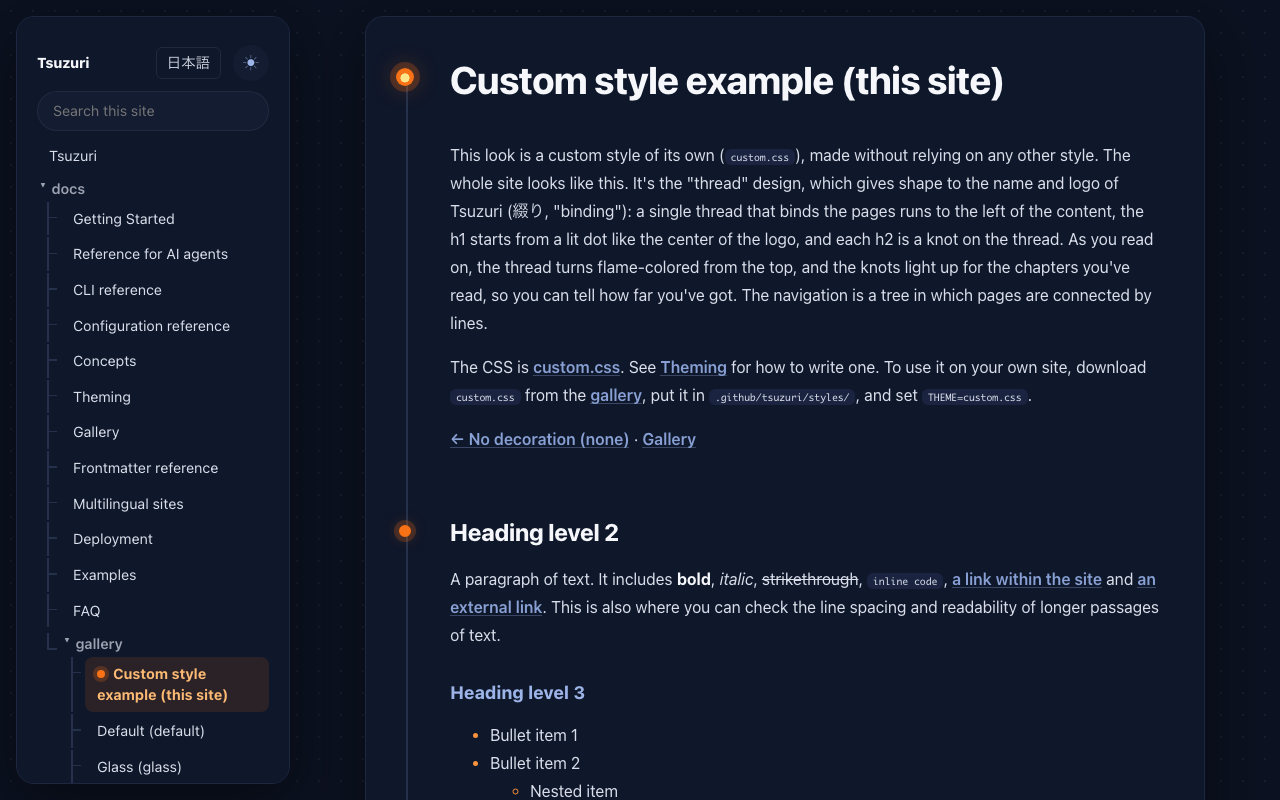
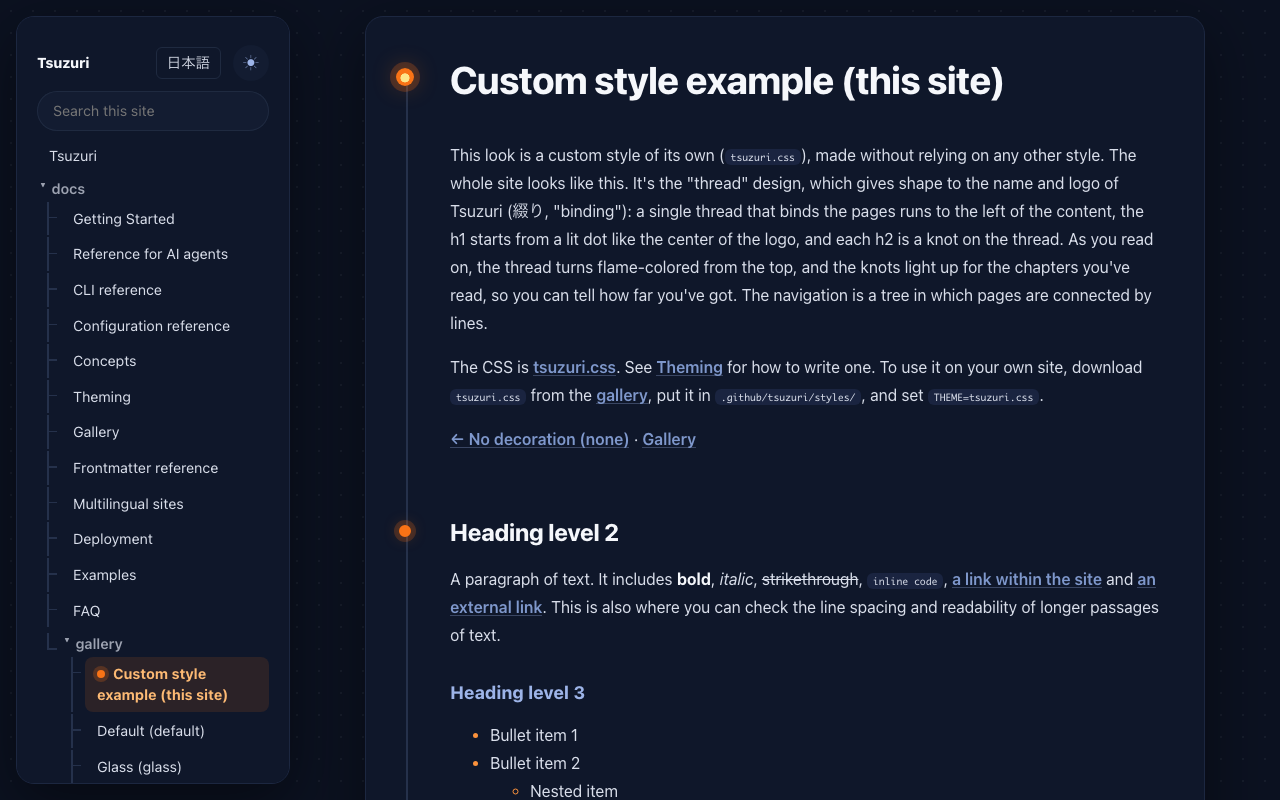
feat: サイトを base.css と tsuzuri.css の2層に切り替える
- init --update で v1.38.0 のスクリプト、base.css、default.css、ワークフローを取り込む
- 設定を THEME=tsuzuri.css にし、STYLE_FILE を削除する
- custom.css を tsuzuri.css に、docs/gallery/custom.md を tsuzuri.md に改名し、参照を直す
- 見本ページの styleFile: plain.css と plain.css を削除する
- 「糸」のサムネイルを改名後の画面で撮り直す

Changed region(s): [[0.4062, 0.4375, 0.9062, 0.5], [0.5625, 0.1875, 0.9062, 0.2188]]

diff --git a/.github/tsuzuri/styles/base.css b/.github/tsuzuri/styles/base.css
@@ -30,12 +30,12 @@
   main code { background: var(--code-bg); padding: 2px 5px; border-radius: 4px; font-size: 0.9em; }
   main pre code { background: none; padding: 0; }
   /* 表は内容に合わせた幅にし、入り切らないときは表の中だけを横にスクロールさせる(本文ごと横に動かさない)。
-     overflow-x は、テーマや独自CSSの main table { overflow: hidden; }(角を丸く切る指定)より優先させるため、body を付けて書く */
+     overflow-x は、カスタムスタイルの main table { overflow: hidden; }(角を丸く切る指定)より優先させるため、body を付けて書く */
   main table { display: block; width: max-content; max-width: 100%; border-collapse: collapse; }
   body main table { overflow-x: auto; }
 
   /* コードの色分け(言語名付きのコードブロックを highlight.js でビルド時に色分けしたもの)。
-     色はテーマのアクセント色・文字色から決める。独自CSSで --hl-* 変数を指定すれば個別に変えられる。 */
+     色はカスタムスタイルのアクセント色・文字色から決める。カスタムスタイルで --hl-* 変数を指定すれば個別に変えられる。 */
   .hljs-comment, .hljs-quote { color: var(--hl-comment, var(--fg)); opacity: 0.6; font-style: italic; }
   .hljs-keyword, .hljs-selector-tag, .hljs-built_in, .hljs-type, .hljs-meta {
     color: var(--hl-keyword, var(--accent));
@@ -63,7 +63,7 @@
   /* サイト内ナビゲーション(NAV_ENABLED=true のときだけ body 直下に出力される)。
      広い画面では左側に固定したサイドバー、狭い画面では本文の上に「メニュー」ボタンを置き、
      押すとページ一覧が開く(JavaScriptは使わず、チェックボックスとラベルで開閉する)。
-     色はテーマの変数を使うため、どのテーマでもそのまま馴染む。 */
+     色はカスタムスタイルの変数を使うため、どのカスタムスタイルでもそのまま馴染む。 */
   body > nav {
     font-size: 0.9em;
     line-height: 1.5;
@@ -160,7 +160,7 @@
   }
   [data-fn-ref] { text-decoration: none; }
 
-  /* コードブロックのコピーボタン(tsuzuri-copy.js が付ける)。常に表示する。カーソルを当てると、テーマのアクセント色になる(カーソルのある端末だけ)。
+  /* コードブロックのコピーボタン(tsuzuri-copy.js が付ける)。常に表示する。カーソルを当てると、カスタムスタイルのアクセント色になる(カーソルのある端末だけ)。
      ボタンが文字に重ならないよう、ボタンを付けたコードブロックは上の余白を広げ、ボタンの下から文字を始める */
   .tsuzuri-code { position: relative; }
   .tsuzuri-code > pre { padding-top: 40px; }
@@ -247,6 +247,10 @@
     .tsuzuri-nav-label { display: none; }
     body:has(> nav) > main { width: 100%; }
   }
+
+/* ---------- カルーセル(ギャラリーの見本画像。JavaScript を使わず、横にスクロールして切り替える) ---------- */
+.tsuzuri-carousel { display: flex; gap: 12px; overflow-x: auto; scroll-snap-type: x mandatory; margin: 0 0 12px; }
+.tsuzuri-carousel > img { flex: 0 0 100%; max-width: 100%; height: auto; scroll-snap-align: start; }
 
 /* ---------- 言語の切り替え ここから(多言語サイトのときだけ出力される) ---------- */
 :is(.tsuzuri-nav-head, .tsuzuri-lang-bar) .tsuzuri-lang-switch {

diff --git a/.github/tsuzuri/styles/tsuzuri.css b/.github/tsuzuri/styles/tsuzuri.css
@@ -1,15 +1,15 @@
 /*
- * Tsuzuri サイト用の独自スタイル(STYLE_FILE)
+ * Tsuzuri サイト用のカスタムスタイル(THEME=tsuzuri.css)
  *
- * THEME=none(基礎CSSのみ)の上に、Tsuzuri(綴り)の名前とロゴをそのまま形にした「スレッド」の見た目を作る。
+ * ベース(base.css)の上に、Tsuzuri(綴り)の名前とロゴをそのまま形にした「スレッド」の見た目を作る。
  *   - 本文の左に、ページを綴じる1本の糸が通る。h1 はロゴの中心のような灯った点から始まり、h2 は糸の上の結び目
  *   - 糸は読み進めるほど上から炎の色に染まり、結び目は読んだ章まで灯る(どこまで読んだかが分かる)
  *   - ナビは、ページどうしが線でつながる木の形。今いるページの点だけが灯る
  *   - ライト表示は生成りの紙と紺のインク、ダーク表示は夜の紺。動きに対応していないブラウザや、
  *     動きを減らす設定の人には、糸と結び目は動かずにそのまま表示される
  *
- * テーマの見本ページ(docs/gallery/*.md)は、それぞれのテーマの見た目をそのまま見せるため、
- * frontmatter の styleFile で中身が空の plain.css を指定して、このスタイルを当てないようにしている。
+ * ギャラリーの見本ページ(docs/gallery/*.md)は、frontmatter の theme でそれぞれのカスタムスタイルを
+ * 指定しているので、このスタイルは当たらない(サイト全体のカスタムスタイルが置き換えられる)。
  */
 :root {
   color-scheme: light dark;
@@ -156,7 +156,7 @@ main h4 { margin: 1.5em 0 0.4em; font-size: 1em; color: var(--muted); }
 main a { color: var(--accent); font-weight: 600; text-decoration: underline; text-decoration-thickness: 2px; text-underline-offset: 0.2em; text-decoration-color: color-mix(in srgb, var(--accent) 35%, transparent); }
 main a:hover { color: var(--accent-2); text-decoration-color: var(--accent-2); }
 
-/* 本文の部品(角を丸く、テーマの質感で) */
+/* 本文の部品(角を丸く、このスタイルの質感で) */
 main strong { color: var(--heading); }
 main blockquote { margin: 1.4em 0; padding: 0.8em 1.2em; color: var(--muted); background: var(--el-bg); border: 0; border-radius: var(--radius); box-shadow: var(--inset-shadow); }
 main hr { margin: 2.5em 0; height: 3px; border: 0; border-radius: 3px; background: var(--hr); }

diff --git a/MAINTAINING.ja.md b/MAINTAINING.ja.md
@@ -7,7 +7,7 @@
 
 `docs/`(と `README.md`)が、利用者向けサイトの原本です。サイトは Tsuzuri 自身で作っています。`main` にマージすると `.github/workflows/tsuzuri-pages.yml` が動き、サイトが GitHub Pages に公開されます。利用者向けドキュメントの修正も、コードと同じように `main` への PR で行います。
 
-- `.github/tsuzuri/`(ビルドスクリプト、`lib/`、`styles/` の `base.css` と `default.css`、`package.json`・`package-lock.json`、`.gitignore`)と `tsuzuri-pages.yml` は、リリース時の `init --update` だけで変わります(「リリース」を参照)。手で編集しないでください。ただし、action の SHA とバージョンのコメントは例外で、「依存パッケージの更新」の手順で、ほかの 3 ファイルと同時に `tsuzuri-pages.yml` も手で直します。`.github/tsuzuri/config` と、`.github/tsuzuri/styles/` に置いた `default.css` 以外のカスタムスタイル(`custom.css` や `plain.css`、ギャラリーで配るスタイルの `glass.css` ほかと `none.css` など)は、このサイト自身のファイルで、`init --update` では変更されません。ギャラリーで配るカスタムスタイルの CSS は、パッケージには含めて配らないので、手で保守します(`.github/tsuzuri/` を手で編集しないという決まりの例外です)。
+- `.github/tsuzuri/`(ビルドスクリプト、`lib/`、`styles/` の `base.css` と `default.css`、`package.json`・`package-lock.json`、`.gitignore`)と `tsuzuri-pages.yml` は、リリース時の `init --update` だけで変わります(「リリース」を参照)。手で編集しないでください。ただし、action の SHA とバージョンのコメントは例外で、「依存パッケージの更新」の手順で、ほかの 3 ファイルと同時に `tsuzuri-pages.yml` も手で直します。`.github/tsuzuri/config` と、`.github/tsuzuri/styles/` に置いた `default.css` 以外のカスタムスタイル(`tsuzuri.css`、ギャラリーで配るスタイルの `glass.css` ほかと `none.css` など)は、このサイト自身のファイルで、`init --update` では変更されません。ギャラリーで配るカスタムスタイルの CSS は、パッケージには含めて配らないので、手で保守します(`.github/tsuzuri/` を手で編集しないという決まりの例外です)。
 - 公開は CI の成功を待ちません。マージ前のサイトの確認は、CI の `docs-build` ジョブ(公開せずにビルドだけ行う)で行います。
 
 ## リポジトリの初期設定(1 回だけ)

diff --git a/MAINTAINING.md b/MAINTAINING.md
@@ -7,7 +7,7 @@ This document is for people who can push to `main`: how the user documentation (
 
 `docs/` (with `README.md`) is the source of the user-facing site, which is built with Tsuzuri itself. Merging to `main` runs `.github/workflows/tsuzuri-pages.yml` and publishes the site to GitHub Pages. User-facing documentation fixes are PRs to `main`, like code changes.
 
-- `.github/tsuzuri/` (the build script, `lib/`, `styles/base.css` and `styles/default.css`, `package.json`, `package-lock.json` and `.gitignore`) and `tsuzuri-pages.yml` change only through `init --update` at release time (see Releasing). Do not edit them by hand. The one exception is the SHA and version comment of an action: update them by hand in `tsuzuri-pages.yml` together with the other three files, as described in Updating dependencies. `.github/tsuzuri/config` and the custom styles under `.github/tsuzuri/styles/` other than `default.css` (such as `custom.css` and `plain.css`, and the styles offered in the gallery: `glass.css` and the other styles, and `none.css`) are this site's own files, and `init --update` leaves them alone. The CSS of the custom styles offered in the gallery is maintained by hand: they are not distributed in the package, so this is an exception to the rule of not editing `.github/tsuzuri/` by hand.
+- `.github/tsuzuri/` (the build script, `lib/`, `styles/base.css` and `styles/default.css`, `package.json`, `package-lock.json` and `.gitignore`) and `tsuzuri-pages.yml` change only through `init --update` at release time (see Releasing). Do not edit them by hand. The one exception is the SHA and version comment of an action: update them by hand in `tsuzuri-pages.yml` together with the other three files, as described in Updating dependencies. `.github/tsuzuri/config` and the custom styles under `.github/tsuzuri/styles/` other than `default.css` (such as `tsuzuri.css`, and the styles offered in the gallery: `glass.css` and the other styles, and `none.css`) are this site's own files, and `init --update` leaves them alone. The CSS of the custom styles offered in the gallery is maintained by hand: they are not distributed in the package, so this is an exception to the rule of not editing `.github/tsuzuri/` by hand.
 - Publishing does not wait for CI. Check the site before merging with the `docs-build` job of CI, which builds the site without deploying it.
 
 ## One-time repository setup

diff --git a/docs/theming.ja.md b/docs/theming.ja.md
@@ -67,7 +67,7 @@ THEME=glass.css
 - **90年代(`nineties.css`)**: 90s Nostalgia。Windows 95 風の青緑のデスクトップと灰色のウィンドウ、立体のボタン。ライト表示のみ。
 - **装飾なし(`none.css`)**: コメントだけのCSSファイル。ベースだけが適用され、色や装飾はブラウザの既定の見た目になります
   (`THEME=none`というキーワードはありません。`none.css`をほかのカスタムスタイルと同じように使います)。
-- **Tsuzuri(`custom.css`)**: このサイト自身の見た目(下の囲みを参照)。
+- **Tsuzuri(`tsuzuri.css`)**: このサイト自身の見た目(下の囲みを参照)。
 
 ライト/ダーク表示は、ブループリントが常に同じ表示、90年代がライトのみで、それ以外はOSの設定に合わせて
 自動で切り替わります。グラスのガラス(背景のぼかし)は、ブラウザが対応していない場合は半透明のカードとして表示されます。
@@ -106,8 +106,8 @@ THEME=glass.css
 
 > [!TIP]
 > このサイト自体も、自分用のカスタムスタイル(「スレッド」のデザイン。
-> [custom.css](https://github.com/akilasatolu/tsuzuri/blob/main/.github/tsuzuri/styles/custom.css))で見た目を作っています。
-> 書き方の例として参考にしてください(見た目は[カスタムスタイルの例](gallery/custom.ja.md)で確認できます)。
+> [tsuzuri.css](https://github.com/akilasatolu/tsuzuri/blob/main/.github/tsuzuri/styles/tsuzuri.css))で見た目を作っています。
+> 書き方の例として参考にしてください(見た目は[カスタムスタイルの例](gallery/tsuzuri.ja.md)で確認できます)。
 >
 > このサイトの[ギャラリー](gallery.ja.md)は、見本ページのfrontmatterに[`theme`](frontmatter.ja.md#theme)を
 > 書いて、カスタムスタイルごとにそのスタイルだけの見た目で表示しています。

diff --git a/docs/gallery/tsuzuri.ja.md b/docs/gallery/tsuzuri.ja.md
@@ -1,20 +1,21 @@
 ---
 title: カスタムスタイルの例(このサイト)
+theme: tsuzuri.css
 description: このサイト自身のカスタムスタイルで作った、このサイト自身の見た目の見本ページ
 ---
 
 # カスタムスタイルの例(このサイト)
 
-このサイト自身のカスタムスタイル(`custom.css`)で作った見た目です。
+このサイト自身のカスタムスタイル(`tsuzuri.css`)で作った見た目です。
 このサイト全体がこの見た目になっています。Tsuzuri(綴り)の名前とロゴをそのまま形にした「スレッド」のデザインで、
 本文の左にページを綴じる1本の糸が通り、h1 はロゴの中心のような灯った点から、h2 は糸の上の結び目になります。
 糸は読み進めるほど上から炎の色に染まり、結び目は読んだ章まで灯るので、どこまで読んだかが分かります。
 ナビは、ページどうしが線でつながる木の形です。
 
-使っているCSSは[custom.css](https://github.com/akilasatolu/tsuzuri/blob/main/.github/tsuzuri/styles/custom.css)です。
+使っているCSSは[tsuzuri.css](https://github.com/akilasatolu/tsuzuri/blob/main/.github/tsuzuri/styles/tsuzuri.css)です。
 書き方は[スタイル(Theming)](../theming.ja.md#自分でカスタムスタイルを作る)を参照してください。
-自分のサイトで使うには、[ギャラリー](../gallery.ja.md#tsuzuriこのサイト)で`custom.css`をダウンロードし、
-`.github/tsuzuri/styles/`に置いて、`THEME=custom.css`にします。
+自分のサイトで使うには、[ギャラリー](../gallery.ja.md#tsuzuriこのサイト)で`tsuzuri.css`をダウンロードし、
+`.github/tsuzuri/styles/`に置いて、`THEME=tsuzuri.css`にします。
 
 [← 装飾なし(none)](none.ja.md) ・ [ギャラリー一覧](../gallery.ja.md)
 

diff --git a/docs/gallery/tsuzuri.md b/docs/gallery/tsuzuri.md
@@ -1,11 +1,12 @@
 ---
 title: Custom style example (this site)
+theme: tsuzuri.css
 description: A sample page of this site's own look, made with a custom style of its own
 ---
 
 # Custom style example (this site)
 
-This look is a custom style of its own (`custom.css`), made without relying on any other style.
+This look is a custom style of its own (`tsuzuri.css`), made without relying on any other style.
 The whole site looks like this. It's the "thread" design, which gives shape to the name and logo of
 Tsuzuri (綴り, "binding"): a single thread that binds the pages runs to the left of the content,
 the h1 starts from a lit dot like the center of the logo, and each h2 is a knot on the thread.
@@ -13,10 +14,10 @@ As you read on, the thread turns flame-colored from the top, and the knots light
 chapters you've read, so you can tell how far you've got. The navigation is a tree in which pages
 are connected by lines.
 
-The CSS is [custom.css](https://github.com/akilasatolu/tsuzuri/blob/main/.github/tsuzuri/styles/custom.css).
+The CSS is [tsuzuri.css](https://github.com/akilasatolu/tsuzuri/blob/main/.github/tsuzuri/styles/tsuzuri.css).
 See [Theming](../theming.md#writing-your-own-custom-style) for how to write one. To use it on your own
-site, download `custom.css` from the [gallery](../gallery.md#tsuzuri-this-site), put it in `.github/tsuzuri/styles/`,
-and set `THEME=custom.css`.
+site, download `tsuzuri.css` from the [gallery](../gallery.md#tsuzuri-this-site), put it in `.github/tsuzuri/styles/`,
+and set `THEME=tsuzuri.css`.
 
 [← No decoration (none)](none.md) · [Gallery](../gallery.md)
 

diff --git a/docs/theming.md b/docs/theming.md
@@ -79,7 +79,7 @@ Download one, put it in `.github/tsuzuri/styles/`, and set `THEME=<file name>.cs
 - **none (`none.css`)**: a CSS file that contains only comments. Only the base CSS is applied, and
   the colors and decoration are the browser's defaults. (There is no `THEME=none` keyword; use
   `none.css` like any other custom style.)
-- **Tsuzuri (`custom.css`)**: this site's own look (see below).
+- **Tsuzuri (`tsuzuri.css`)**: this site's own look (see below).
 
 Blueprint always looks the same and 90s is light only; the others switch between light and dark
 automatically to match the OS setting. Glass's glass (the background blur) is shown as
@@ -120,8 +120,8 @@ below.
 
 > [!TIP]
 > This site itself is built with a custom style of its own, a "thread" design
-> ([custom.css](https://github.com/akilasatolu/tsuzuri/blob/main/.github/tsuzuri/styles/custom.css)). See it as an example of how to write
-> one (you can see the result in the [custom style example](gallery/custom.md)).
+> ([tsuzuri.css](https://github.com/akilasatolu/tsuzuri/blob/main/.github/tsuzuri/styles/tsuzuri.css)). See it as an example of how to write
+> one (you can see the result in the [custom style example](gallery/tsuzuri.md)).
 >
 > This site's [gallery](gallery.md) shows each custom style on its own page by writing
 > [`theme`](frontmatter.md#theme) in the frontmatter of the sample pages.

diff --git a/docs/gallery/none.ja.md b/docs/gallery/none.ja.md
@@ -1,7 +1,6 @@
 ---
 title: 装飾なし(none)
 theme: none.css
-styleFile: plain.css
 description: カスタムスタイル「装飾なし(none)」の見本ページ
 ---
 
@@ -14,7 +13,7 @@ description: カスタムスタイル「装飾なし(none)」の見本ページ
 1ページだけ使う場合は、そのページのfrontmatterに`theme: none.css`と書きます
 ([スタイル(Theming)](../theming.ja.md)参照)。
 
-[← 90年代(nineties)](nineties.ja.md) ・ [ギャラリー一覧](../gallery.ja.md) ・ [カスタムスタイルの例(このサイト) →](custom.ja.md)
+[← 90年代(nineties)](nineties.ja.md) ・ [ギャラリー一覧](../gallery.ja.md) ・ [カスタムスタイルの例(このサイト) →](tsuzuri.ja.md)
 
 ## 見出しレベル2
 
@@ -51,4 +50,4 @@ console.log(marked.parse("# Hello Tsuzuri"));
 
 ![Tsuzuriのロゴ](../../assets/favicon.svg)
 
-[← 90年代(nineties)](nineties.ja.md) ・ [ギャラリー一覧](../gallery.ja.md) ・ [カスタムスタイルの例(このサイト) →](custom.ja.md)
+[← 90年代(nineties)](nineties.ja.md) ・ [ギャラリー一覧](../gallery.ja.md) ・ [カスタムスタイルの例(このサイト) →](tsuzuri.ja.md)

diff --git a/docs/gallery/none.md b/docs/gallery/none.md
@@ -1,7 +1,6 @@
 ---
 title: No decoration (none)
 theme: none.css
-styleFile: plain.css
 description: A sample page of the custom style "No decoration (none)"
 ---
 
@@ -14,7 +13,7 @@ and set `THEME=none.css` in `.github/tsuzuri/config`.
 To use it for a single page only, write `theme: none.css` in that page's frontmatter
 (see [Theming](../theming.md)).
 
-[← 90s (nineties)](nineties.md) · [Gallery](../gallery.md) · [Custom style example (this site) →](custom.md)
+[← 90s (nineties)](nineties.md) · [Gallery](../gallery.md) · [Custom style example (this site) →](tsuzuri.md)
 
 ## Heading level 2
 
@@ -51,4 +50,4 @@ console.log(marked.parse("# Hello Tsuzuri"));
 
 ![The Tsuzuri logo](../../assets/favicon.svg)
 
-[← 90s (nineties)](nineties.md) · [Gallery](../gallery.md) · [Custom style example (this site) →](custom.md)
+[← 90s (nineties)](nineties.md) · [Gallery](../gallery.md) · [Custom style example (this site) →](tsuzuri.md)

diff --git a/docs/examples.ja.md b/docs/examples.ja.md
@@ -12,7 +12,7 @@ title: 使用例(Examples)
 ([ソース](https://github.com/akilasatolu/tsuzuri/tree/main))。次の機能を組み合わせています。
 
 - **自分用のカスタムスタイルで作った見た目**: 配色・カード・ボタンを、自分用のカスタムスタイル
-  (`THEME`)で作っています([カスタムスタイルの例](gallery/custom.ja.md))。
+  (`THEME`)で作っています([カスタムスタイルの例](gallery/tsuzuri.ja.md))。
 - **トップページの入口**: `README.md`の冒頭に、`<div class="tsuzuri-hero">`のようにclass付きのHTMLを書き、
   カスタムスタイルで見た目を付けています。GitHub上ではclassが消えて普通の文章として表示されるので、
   GitHubで読んでも崩れません。
